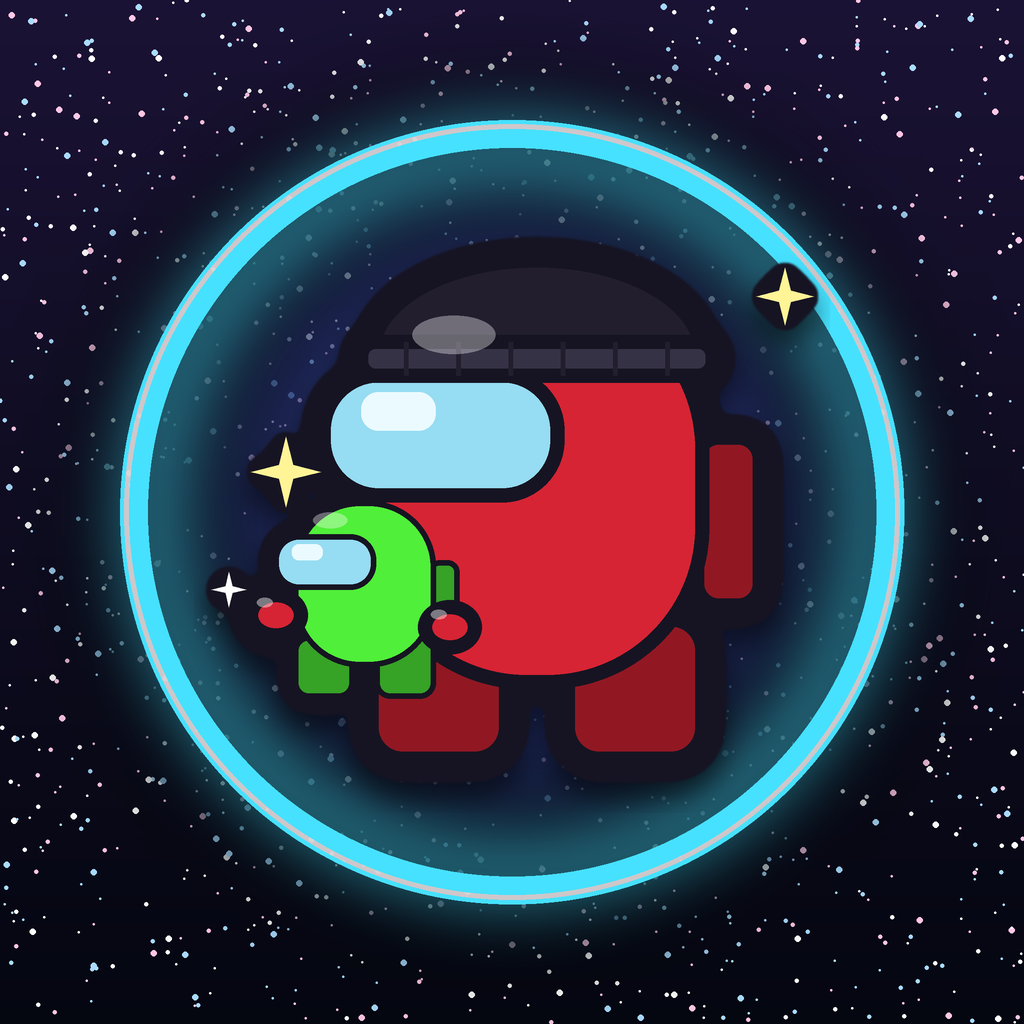
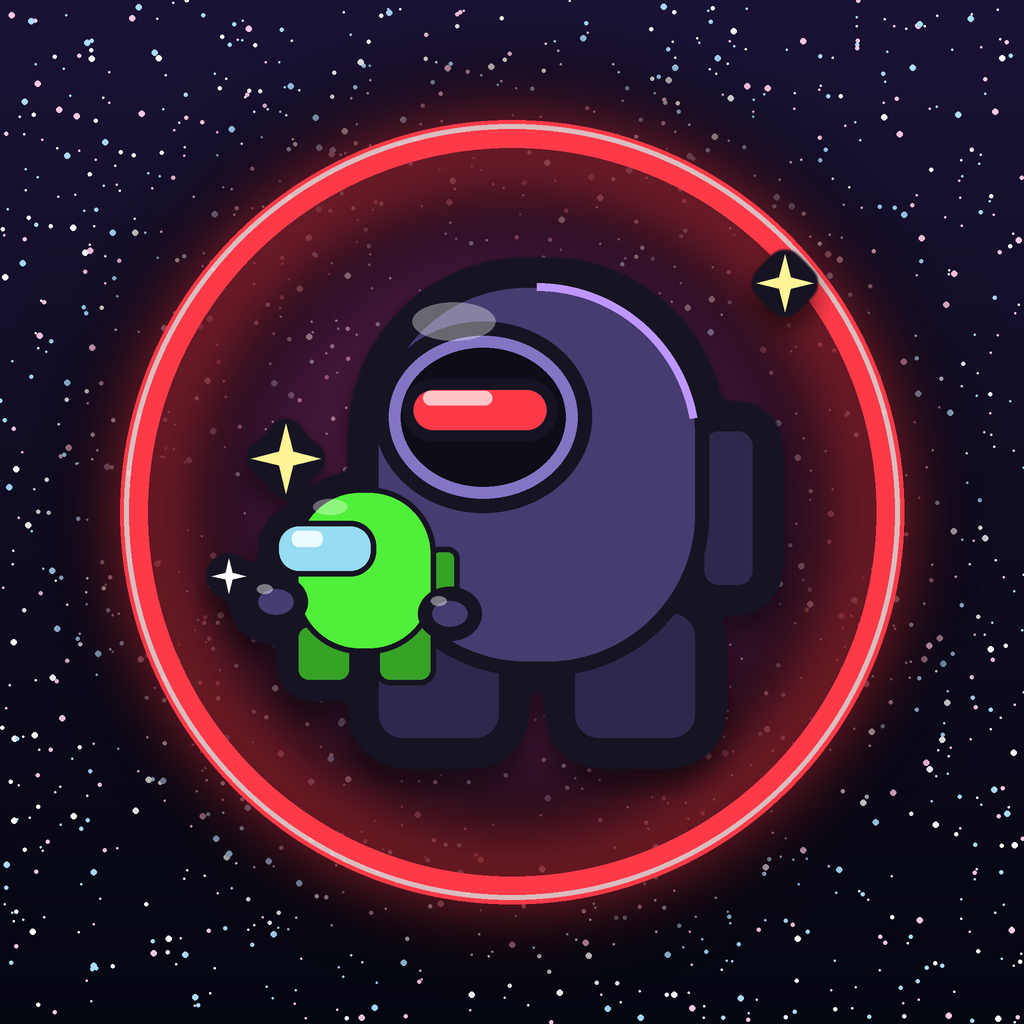
Topluluk logosu: kapusonlu hirsiz geri, kafa ve govde tek siluet ve tek renk

diff --git a/tools/brand_art.py b/tools/brand_art.py
@@ -24,11 +24,12 @@ p = si.p
 DEST = os.path.join(si.ROOT, "branding")
 FONT = si.FONT
 
-RED = (255, 58, 72)       # neon halka
-RING = (70, 225, 255)     # camgöbeği neon: kırmızı hırsızla ve yeşil ganimetle uyumlu
-THIEF = (214, 36, 52)     # hırsızın gövdesi: klasik impostor kırmızısı
-MASK = (34, 30, 46)       # hırsız beresi
-MASK_RIM = (54, 50, 70)   # berenin kıvrık kenarı
+RED = (255, 58, 72)       # neon halka ve vizör
+RING = RED
+HOOD = (70, 60, 112)      # kapüşonlu gövde: kafa ve gövde AYNI renk, tek siluet
+HOOD_RIM = (132, 116, 196) # yüz açıklığının kapüşon kenarı
+RIM = (190, 150, 255)     # arka kenar ışığı
+FACE = (14, 12, 22)       # kapüşonun içi (karanlık)
 LOOT = (80, 239, 57)      # çalınan mürettebat: yeşil
 
 
@@ -62,7 +63,7 @@ def glow_ring(size, cx, cy, r, width, color):
     return Image.alpha_composite(out, ring)
 
 
-def crewmate(d, cx, by, h, col, face=1, pack=0.16):
+def crewmate(d, cx, by, h, col, face=1, pack=0.16, visor=True):
     """store_icons.crewmate'in aynısı; tek fark sırt çantası daha ince (`pack`, boya oranı)."""
     w = h * 0.72
     top = by - h
@@ -75,48 +76,55 @@ def crewmate(d, cx, by, h, col, face=1, pack=0.16):
     d.rounded_rectangle(p(cx - w / 2, by - h * 0.32, cx - w * 0.07, by), radius=h * 0.08 * S, fill=dark, outline=OUT, width=lw)
     d.rounded_rectangle(p(cx + w * 0.07, by - h * 0.32, cx + w / 2, by), radius=h * 0.08 * S, fill=dark, outline=OUT, width=lw)
     d.rounded_rectangle(p(cx - w / 2, top, cx + w / 2, by - h * 0.16), radius=w * 0.47 * S, fill=col, outline=OUT, width=lw)
-    vx0 = cx - w * 0.08 if face > 0 else cx - w / 2 - h * 0.1
-    vx1 = cx + w / 2 + h * 0.1 if face > 0 else cx + w * 0.08
-    d.rounded_rectangle(p(vx0, top + h * 0.17, vx1, top + h * 0.45), radius=h * 0.13 * S, fill=(150, 220, 242), outline=OUT, width=lw)
-    hx = vx0 + (vx1 - vx0) * (0.52 if face > 0 else 0.18)
-    d.rounded_rectangle(p(hx, top + h * 0.22, hx + (vx1 - vx0) * 0.3, top + h * 0.3), radius=h * 0.035 * S, fill=(235, 250, 255))
+    if visor:
+        vx0 = cx - w * 0.08 if face > 0 else cx - w / 2 - h * 0.1
+        vx1 = cx + w / 2 + h * 0.1 if face > 0 else cx + w * 0.08
+        d.rounded_rectangle(p(vx0, top + h * 0.17, vx1, top + h * 0.45), radius=h * 0.13 * S, fill=(150, 220, 242), outline=OUT, width=lw)
+        hx = vx0 + (vx1 - vx0) * (0.52 if face > 0 else 0.18)
+        d.rounded_rectangle(p(hx, top + h * 0.22, hx + (vx1 - vx0) * 0.3, top + h * 0.3), radius=h * 0.035 * S, fill=(235, 250, 255))
     si.gloss(d, (cx - w * 0.36, top + h * 0.06, cx - w * 0.12, top + h * 0.14), 90)
 
 
 def thief_art():
     """
-    Hırsız: tek parça klasik mürettebat silueti (kırmızı), başında siyah haydut
-    maskesi (arkadan uçuşan uçlarıyla), önde küçük bir el ve elinde çaldığı
-    yeşil mürettebat. 512'lik koordinatlarda, saydam, dış konturlu.
+    Kapüşonlu hırsız, elinde çaldığı yeşil mürettebat.
 
-    Önceki çizimde kapüşon, pelerin ve gövde ayrı ayrı konturlanıyordu;
-    parçalar birbirinden kopuk duruyordu. Burada gövde store_icons'un
-    mürettebatı (tek siluet), ekler az ve gövdenin rengiyle.
+    Kafa (kapüşon) ve gövde TEK siluet ve TEK renk: mürettebatın fasulye
+    gövdesi, üst yarısı kapüşon. Eskiden kapüşon gövdeden geniş ve ayrı
+    renkteydi, pelerin ayrı konturluydu — parçalar birbirine uymuyordu.
+    Kapüşon hissini yüz açıklığının çevresindeki kalın açık renkli kenar ve
+    karanlık iç veriyor; kırmızı vizör karanlıkta parlıyor.
     """
     art, d = si.new_art()
-    cx, by, h = 292, 424, 300
+    cx, by, h = 290, 424, 300
     w = h * 0.72
     top = by - h
     lw = max(int(LW * h / 200), 3 * S)
 
-    # Gövde: sola bakan klasik mürettebat (vizör solda, sırt çantası sağda)
-    crewmate(d, cx, by, h, THIEF, -1)
+    # Gövde + kafa: tek fasulye, vizörsüz
+    crewmate(d, cx, by, h, HOOD, -1, visor=False)
+    # Yüz açıklığı: kapüşon kenarı (açık halka) + karanlık iç
+    ox0, ox1 = cx - w * 0.47, cx + w * 0.16
+    oy0, oy1 = top + h * 0.1, top + h * 0.5
+    d.ellipse(p(ox0, oy0, ox1, oy1), fill=HOOD_RIM, outline=OUT, width=lw)
+    inset = h * 0.055
+    d.ellipse(p(ox0 + inset, oy0 + inset, ox1 - inset, oy1 - inset), fill=FACE)
+    # Kırmızı vizör, karanlığın içinde
+    vx0, vx1 = ox0 + w * 0.08, ox1 - w * 0.1
+    vy0, vy1 = top + h * 0.22, top + h * 0.35
+    d.rounded_rectangle(p(vx0, vy0, vx1, vy1), radius=h * 0.065 * S, fill=RED, outline=OUT, width=int(lw * 0.8))
+    d.rounded_rectangle(p(vx0 + w * 0.06, vy0 + h * 0.025, vx0 + w * 0.26, vy0 + h * 0.055),
+                        radius=h * 0.015 * S, fill=(255, 196, 200))
+    # Arka kenar ışığı: mor ince yay, karanlıkta siluet belli olsun
+    d.arc(p(cx - w / 2 + 6, top + 6, cx + w / 2 - 6, top + h * 0.7), 270, 350, fill=RIM, width=5 * S)
 
-    # Hırsız beresi: başın üstünü saran siyah örgü bere, kıvrık kenarı vizöre iniyor
-    d.chord(p(cx - w * 0.5, top - h * 0.07, cx + w * 0.5, top + h * 0.36), 180, 360, fill=MASK, outline=OUT, width=lw)
-    d.rounded_rectangle(p(cx - w * 0.53, top + h * 0.1, cx + w * 0.53, top + h * 0.2),
-                        radius=h * 0.045 * S, fill=MASK_RIM, outline=OUT, width=lw)
-    for i in range(1, 7):
-        x = cx - w * 0.53 + i * (w * 1.06 / 7)
-        d.line(p(x, top + h * 0.115, x, top + h * 0.185), fill=MASK, width=3 * S)
-
-    # Çalınan küçük mürettebat (yeşil), hırsızın önünde, iki eldivenle tutuluyor
+    # Çalınan küçük mürettebat (yeşil), iki eldivenle (gövde renginde) tutuluyor
     small_h = 124
     small_w = small_h * 0.72
     scx, sby = cx - w * 0.5, by - h * 0.14
     crewmate(d, scx, sby, small_h, LOOT, -1)
     for mx, my in ((scx - small_w * 0.62, sby - small_h * 0.42), (scx + small_w * 0.6, sby - small_h * 0.36)):
-        d.ellipse(p(mx - 20, my - 17, mx + 20, my + 17), fill=THIEF, outline=OUT, width=lw)
+        d.ellipse(p(mx - 20, my - 17, mx + 20, my + 17), fill=HOOD, outline=OUT, width=lw)
         si.gloss(d, (mx - 12, my - 11, mx - 2, my - 5), 110)
 
     # Işıltılar: parlak ganimet
@@ -125,7 +133,11 @@ def thief_art():
     si.sparkle(d, cx + w * 0.72, top + h * 0.02, 18, (255, 244, 150))
 
     art = si.stamp(Image.new("RGBA", (W, W), (0, 0, 0, 0)), art, outline=6)
-    return art
+    # Vizör parlaması: karanlıkta yanan kırmızı
+    glow = Image.new("RGBA", (W, W), (0, 0, 0, 0))
+    ImageDraw.Draw(glow).rounded_rectangle(p(vx0 - 10, vy0 - 10, vx1 + 10, vy1 + 10), radius=30 * S, fill=RED + (160,))
+    glow = glow.filter(ImageFilter.GaussianBlur(12 * S))
+    return Image.alpha_composite(glow, art)
 
 
 def fit_into(canvas, art, cx, cy, diameter):
@@ -142,7 +154,7 @@ def emblem():
     img = space(size, 7)
     # Halkanın içi hafif kırmızı-mor: logo zeminden ayrılsın, halkayla bütünleşsin
     halo = Image.new("RGBA", size, (0, 0, 0, 0))
-    ImageDraw.Draw(halo).ellipse(p(66, 66, 446, 446), fill=(40, 60, 130, 150))
+    ImageDraw.Draw(halo).ellipse(p(66, 66, 446, 446), fill=(110, 30, 70, 140))
     img = Image.alpha_composite(img, halo.filter(ImageFilter.GaussianBlur(40 * S)))
     img = Image.alpha_composite(img, glow_ring(size, W / 2, W / 2, 196 * S, 14 * S, RING))
     fit_into(img, thief_art(), W / 2, W / 2 + 6 * S, 318 * S)
